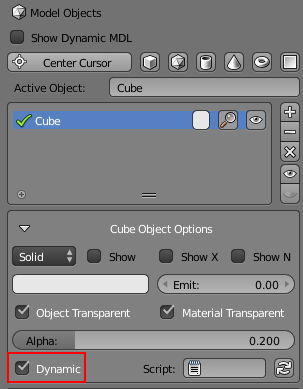
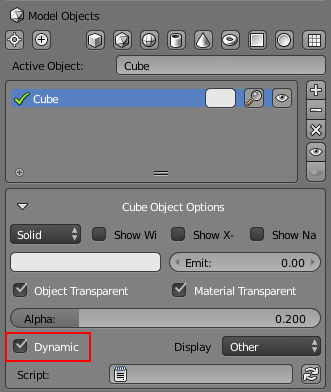
Updated the Dynamic Geometry tutorial to reflect the current controls.
The current Dynamic Geometry system allows for:

  1. Dynamic Geometry from Blender or a non-CellBlender add on.
  2. Dynamic Geometry from a script with display from the script.
  3. Dynamic Geometry from a script with display via exported files.

The second option is new, and it allows rapid testing of dynamic
geometry scripts without running a simulation.

This change updates the Dynamic Geometry tutorial with those changes and
with current screen shots for the changed panel.

diff --git a/dynamic_geometry/dynamic_geometry_overview.rst b/dynamic_geometry/dynamic_geometry_overview.rst
@@ -265,15 +265,29 @@ Note that this may change in the near future.
 
 * Return to the "**Model Objects**" panel in CellBlender and check the "**Dynamic**" box for the Cube object.
 
-* Check the box "**Show Dynamic MDL**" and select the **Script** name given above ("**dg.py**").
+* Choose the **Script** option in the "**Display From**" control.
+
+* Click the "**Refresh**" button beside the Script file name box. Choose the file name given above ("**dg.py**").
 
     .. image:: ./images/show_dynamic_mdl.png
 
-* Open the "**Run Simulation**" panel in CellBlender and click the "**Export & Run**" button to start the simulation.
+* You can drag the time-line cursor to see the dynamic geometry changing as directed by the script. It should resemble the animation at the top of this section. Note that since the model has not been run yet, the molecules will be from the previous run (which was a non-dynamic cube).
+
+* Open the "**Run Simulation**" panel in CellBlender and click the "**Export & Run**" button to start the simulation with the new dynamic geometry.
 
 * After the run completes, refresh the display with "**Reload Visualization Data**". You can play the simulation to see the molecules diffusing within the dynamic geometry.
 
 * As before, the geometry should go through 2 complete cycles over the 200 frames of the simulation. You can choose to display the object as a wire frame to get a better view of the changing geometry.
+
+As mentioned at the top of this page, Dynamic Geometry can come from two sources: Blender itself (via Shape Keys or a non-CellBlender add-on) or from a Python Dynamic Geometry Script. 
+When Blender is generating the dynamic geometry (via shape keys or external add-on), the displayed geometry will always be generated by Blender. This is reflected by the default "Other" setting in the "Display From" selector.
+But when a Python Script is used, the actual screen update may be performed by either direct calls to the scrript or by reading the MDL files generated by the script (typically via export/run).
+The choice is a matter of performance and can be changed with the "Display From" selection control. When "Script" is chosen, the script will update the display directly.
+This is very handy when working on a script because changes to the script can be viewed by simply moving the time line (without running a simulation).
+But for complex geometry calculations (in Python), it may be faster to read the generated MDL files rather than calling the script to refresh the display.
+In that case the "Files" option may be selected to show the actual MDL files used in the previous export/run.
+The performance difference is based on a number of factors, and either option might be faster in certain circumstances.
+Note that since the "Other" option assumes that CellBlender is generating the geometry (either through shape keys or another add-on), it can be used in scripted cases to "freeze" (turn off) the dynamic geometry display.
 
 
 Plotting Dynamic Geometry Volume via Clamp Concentration
